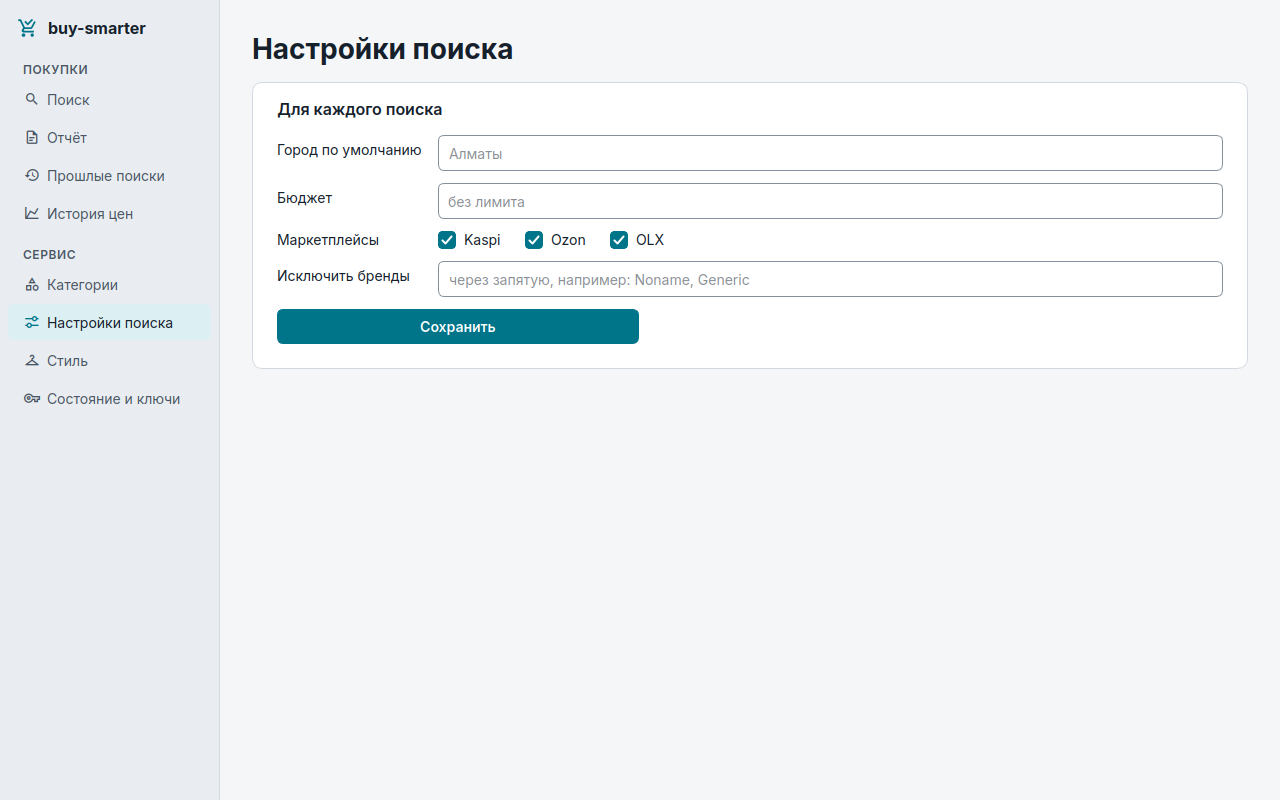
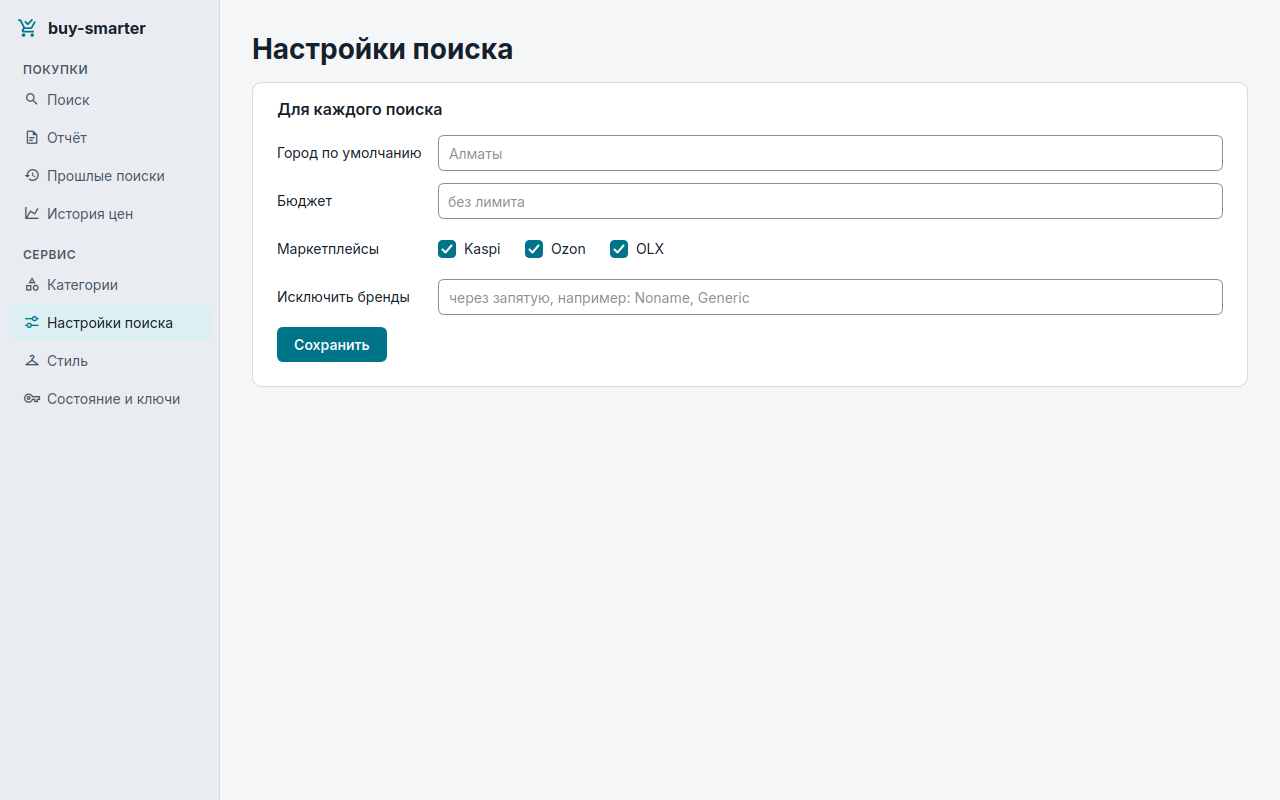
fix: settings form labels centred on their fields, square style tiles, past searches show the whole query, no empty «Родитель» column

Changed region(s): [[0.2188, 0.1875, 0.5938, 0.4688]]

diff --git a/src/buysmarter/gui/screens/style.py b/src/buysmarter/gui/screens/style.py
@@ -10,12 +10,11 @@ from collections.abc import Callable, Coroutine
 from pathlib import Path
 from typing import Any
 
-from PySide6.QtCore import QSize, Qt, Signal
+from PySide6.QtCore import QRect, QSize, Qt, Signal
 from PySide6.QtGui import QIcon, QImageReader, QPixmap, QResizeEvent, QShowEvent
 from PySide6.QtWidgets import (
     QAbstractItemView,
     QFileDialog,
-    QFormLayout,
     QGroupBox,
     QHBoxLayout,
     QLabel,
@@ -52,7 +51,7 @@ from buysmarter.cli.style import (
     phrase_line,
 )
 from buysmarter.gui.bridge import CoreRunner, Job
-from buysmarter.gui.theme import CARD_GAP, PAGE_GAP, SPACE, Prose, card_body, set_state
+from buysmarter.gui.theme import PAGE_GAP, SPACE, Prose, card_body, form_rows, set_state
 from buysmarter.memory.prefs import as_list
 from buysmarter.style import profile, weights
 
@@ -126,10 +125,13 @@ async def _brands(text: str) -> str:
 
 
 def _thumbnail(path: Path) -> QIcon:
-    """A small icon, decoded at that size (fast even for a big JPEG)."""
+    """A square tile cut from the photo's centre, decoded at that size (fast for a big JPEG)."""
     reader = QImageReader(str(path))
     if (size := reader.size()).isValid():
-        reader.setScaledSize(size.scaled(_THUMB_PX, _THUMB_PX, Qt.AspectRatioMode.KeepAspectRatio))
+        fill = size.scaled(_THUMB_PX, _THUMB_PX, Qt.AspectRatioMode.KeepAspectRatioByExpanding)
+        reader.setScaledSize(fill)
+        left, top = (fill.width() - _THUMB_PX) // 2, (fill.height() - _THUMB_PX) // 2
+        reader.setScaledClipRect(QRect(left, top, _THUMB_PX, _THUMB_PX))
     return QIcon(QPixmap.fromImage(reader.read()))
 
 
@@ -303,13 +305,11 @@ class StyleScreen(QWidget):
         # QSS horizontal padding does not reach a spin box's text: inset it as budget_box does.
         self.strength.lineEdit().setTextMargins(SPACE["sm"], 0, SPACE["sm"], 0)
         self.strength.valueChanged.connect(self._save_strength)
-        form = QFormLayout()
-        form.setHorizontalSpacing(SPACE["lg"])
-        form.setVerticalSpacing(CARD_GAP)
-        form.setLabelAlignment(Qt.AlignmentFlag.AlignLeft | Qt.AlignmentFlag.AlignVCenter)
-        form.addRow("Бренды", _row(self.brands, self.save_brands))
-        form.addRow("", _caption("По ним ищутся вещи на Kaspi, в этом порядке (до шести)."))
-        form.addRow(STRENGTH, _row(self.strength, _caption(_STRENGTH_HINT)))
+        form = form_rows(
+            ("Бренды", _row(self.brands, self.save_brands)),
+            ("", _caption("По ним ищутся вещи на Kaspi, в этом порядке (до шести).")),
+            (STRENGTH, _row(self.strength, _caption(_STRENGTH_HINT))),
+        )
         card, inside = _card("Настройка")
         inside.addLayout(form)
         return card

diff --git a/src/buysmarter/gui/screens/preferences.py b/src/buysmarter/gui/screens/preferences.py
@@ -3,11 +3,11 @@
 from collections.abc import Callable, Coroutine, Mapping
 from typing import Any
 
-from PySide6.QtCore import Qt, Signal
+from PySide6.QtCore import Signal
 from PySide6.QtWidgets import (
-    QFormLayout,
     QGroupBox,
     QHBoxLayout,
+    QLabel,
     QLineEdit,
     QPushButton,
     QVBoxLayout,
@@ -28,7 +28,7 @@ from buysmarter.gui.prefs_fields import (
     source_boxes,
     store_warning,
 )
-from buysmarter.gui.theme import CARD_GAP, PAGE_GAP, SPACE, Prose, card_body, set_state
+from buysmarter.gui.theme import PAGE_GAP, SPACE, card_body, form_rows, set_state
 from buysmarter.memory import prefs
 
 type Store = Callable[[Mapping[str, Any]], Coroutine[Any, Any, None]]
@@ -53,7 +53,7 @@ class PreferencesScreen(QWidget):
         self.budget = budget_box()
         self.sources = source_boxes()
         self.excluded = QLineEdit(placeholderText="через запятую, например: Noname, Generic")
-        self.message = Prose()
+        self.message = QLabel(wordWrap=True)  # beside the button: a capped width would stretch it
         self.store_warning = store_warning()
         self.save_button = QPushButton("Сохранить", default=True)
         set_state(self.save_button, "primary", "true")
@@ -65,18 +65,16 @@ class PreferencesScreen(QWidget):
         for box in self.sources.values():
             marketplaces.addWidget(box)
         marketplaces.addStretch(1)
-        form = QFormLayout()
-        form.addRow(LABELS[CITY], self.city)
-        form.addRow(LABELS[BUDGET], self.budget)
-        form.addRow(LABELS[MARKETPLACES], marketplaces)
-        form.addRow(LABELS[EXCLUDED_BRANDS], self.excluded)
+        form = form_rows(
+            (LABELS[CITY], self.city),
+            (LABELS[BUDGET], self.budget),
+            (LABELS[MARKETPLACES], marketplaces),
+            (LABELS[EXCLUDED_BRANDS], self.excluded),
+        )
         layout = QVBoxLayout(self)
         # Under the screen heading (app._centered): no top gap of its own.
         layout.setContentsMargins(SPACE["xxl"], SPACE["lg"], SPACE["xxl"], SPACE["xl"])
         layout.setSpacing(PAGE_GAP)
-        form.setVerticalSpacing(CARD_GAP)
-        form.setHorizontalSpacing(SPACE["lg"])
-        form.setLabelAlignment(Qt.AlignmentFlag.AlignLeft | Qt.AlignmentFlag.AlignVCenter)
         buttons = QHBoxLayout()
         buttons.addWidget(self.save_button)
         buttons.addSpacing(SPACE["md"])

diff --git a/src/buysmarter/gui/theme/__init__.py b/src/buysmarter/gui/theme/__init__.py
@@ -11,7 +11,14 @@ from pathlib import Path
 
 from PySide6.QtCore import QObject, Qt, Slot
 from PySide6.QtGui import QFontDatabase, QGuiApplication, QIcon
-from PySide6.QtWidgets import QApplication, QLabel, QLayout, QWidget
+from PySide6.QtWidgets import (
+    QApplication,
+    QBoxLayout,
+    QFormLayout,
+    QLabel,
+    QLayout,
+    QWidget,
+)
 
 os.environ.setdefault("QT_API", "pyside6")  # qtawesome loads Qt through qtpy: never another binding
 import qtawesome  # noqa: E402 - needs QT_API first
@@ -41,6 +48,8 @@ RADIUS = 6
 # Field text boxes, sized so a line edit, a combo box and a spin box all come out 36px tall:
 # Fusion adds 3px more frame around a spin box than around a line edit.
 _CONTROL_TEXT_PX = 22
+# What that comes to: a field, and the line a form label is centred on.
+CONTROL_PX = 36
 # A card's title sits inside it (the QGroupBox font styles it; children reset to body):
 # this much top padding holds the 16px title and its gap.
 _CARD_TITLE_BAND_PX = 52
@@ -305,6 +314,28 @@ def card_body[L: QLayout](layout: L) -> L:
     layout.setContentsMargins(0, 0, 0, 0)
     layout.setSpacing(CARD_GAP)
     return layout
+
+
+def form_rows(*rows: tuple[str, QWidget | QLayout]) -> QFormLayout:
+    """A settings form: each label left of its field, centred on the field's first line.
+
+    Qt gives a form label less height than the row and pins it to the top: 4px above the
+    field's text. A label as tall as a field centres like the field's own text.
+    """
+    form = QFormLayout()
+    form.setHorizontalSpacing(SPACE["lg"])
+    form.setVerticalSpacing(CARD_GAP)
+    form.setLabelAlignment(Qt.AlignmentFlag.AlignLeft | Qt.AlignmentFlag.AlignVCenter)
+    for text, field in rows:
+        label = QLabel(text)
+        if text:  # an empty one only indents a caption row: no height of its own
+            label.setMinimumHeight(CONTROL_PX)
+            if isinstance(field, QBoxLayout):  # a row of check boxes centres on the label too
+                field.addStrut(CONTROL_PX)
+        if isinstance(field, QWidget):
+            label.setBuddy(field)
+        form.addRow(label, field)
+    return form
 
 
 def set_state(widget: QWidget, name: str, value: str) -> None:

diff --git a/tests/gui/test_categories.py b/tests/gui/test_categories.py
@@ -4,7 +4,7 @@ import asyncio
 from pathlib import Path
 
 from buysmarter.capabilities.provenance import CHANGED_NOTE
-from buysmarter.cli.category import NOTES_TOO_LONG
+from buysmarter.cli.category import NOTES_TOO_LONG, CategoryRow
 from buysmarter.gui.bridge import USER_ERROR
 from buysmarter.gui.learning import LEARN_CANCELLED, CategoryLearning
 from buysmarter.gui.screens import categories as screen_module
@@ -59,6 +59,18 @@ def test_the_list_names_each_category_with_its_books(qtbot, runner) -> None:
 
     qtbot.waitUntil(lambda: _rows(screen) == ["робот-пылесос"], timeout=_WAIT_MS)
     assert screen.table.item(0, 1).text() == "бренды 2, модели 0"
+
+
+def test_the_parent_column_shows_only_when_a_category_has_one(qtbot, runner) -> None:
+    screen = _screen(qtbot, runner)
+    parent = CategoryRow._fields.index("parent")
+    qtbot.waitUntil(lambda: screen.empty.text() == EMPTY, timeout=_WAIT_MS)  # the reload is done
+
+    screen._fill([CategoryRow("кроссовки", "бренды 1", "", "вы, 2026-10-29")])
+    assert screen.table.isColumnHidden(parent)
+
+    screen._fill([CategoryRow("кроссовки-беговые", "бренды 1", "кроссовки", "вы, 2026-10-29")])
+    assert not screen.table.isColumnHidden(parent)
 
 
 def test_a_picked_category_shows_its_summary_and_switches_without_a_rerun(qtbot, runner) -> None:

diff --git a/tests/gui/test_theme.py b/tests/gui/test_theme.py
@@ -2,6 +2,7 @@
 
 import pytest
 from PySide6.QtCore import Qt
+from PySide6.QtWidgets import QCheckBox, QHBoxLayout, QLineEdit, QWidget
 
 from buysmarter.gui import theme
 
@@ -100,3 +101,27 @@ def test_screens_take_colors_and_sizes_only_from_the_theme():
         if banned.search(line)
     ]
     assert hits == []
+
+
+def test_a_form_label_sits_on_its_field_centre(qapp):
+    """Qt pins a form label to the row's top, 4px above the field's text."""
+    theme.load_font()
+    theme.apply_theme(qapp)
+    try:
+        field = QLineEdit("Salomon")
+        boxes = QHBoxLayout()
+        boxes.addWidget(box := QCheckBox("Kaspi"))
+        host = QWidget()
+        form = theme.form_rows(("Бренды", field), ("Маркетплейсы", boxes))
+        host.setLayout(form)
+        host.resize(400, 200)
+        host.show()
+        qapp.processEvents()
+        assert field.height() == theme.CONTROL_PX
+        for widget, label in (
+            (field, form.labelForField(field)),
+            (box, form.itemAt(1, form.ItemRole.LabelRole).widget()),
+        ):
+            assert abs(label.geometry().center().y() - widget.geometry().center().y()) <= 1
+    finally:
+        qapp.setStyleSheet("")

diff --git a/src/buysmarter/gui/screens/saved.py b/src/buysmarter/gui/screens/saved.py
@@ -46,7 +46,7 @@ type ListReports = Callable[[], list[Path]]
 
 def _report_item(path: Path) -> QListWidgetItem:
     label = report_label(path)
-    item = QListWidgetItem(label)
+    item = QListWidgetItem(label.replace(" — ", "\n", 1))
     item.setData(_PATH_ROLE, path)
     item.setToolTip(f"{label}\n{path}")
     return item
@@ -153,7 +153,8 @@ class SavedScreen(QWidget):
         self._list_reports = list_reports
         self.reports = QListWidget()
         self.reports.setFixedWidth(_LIST_WIDTH)
-        # A long query elides; its full label and file are in the tooltip.
+        # Date over query (`_report_item`): the query gets the row's full width; a longer one
+        # still elides, and its full label and file are in the tooltip.
         self.reports.setHorizontalScrollBarPolicy(Qt.ScrollBarPolicy.ScrollBarAlwaysOff)
         self.reports.setTextElideMode(Qt.TextElideMode.ElideRight)
         self.reports.currentItemChanged.connect(self._show)

diff --git a/src/buysmarter/gui/screens/categories.py b/src/buysmarter/gui/screens/categories.py
@@ -189,6 +189,9 @@ class CategoriesScreen(QWidget):
             if row.name == self._shown:
                 self.table.selectRow(r)
         self.table.blockSignals(False)
+        # an empty column on every row is noise: «Родитель» only once a category has one
+        has_parent = any(row.parent for row in rows)
+        self.table.setColumnHidden(CategoryRow._fields.index("parent"), not has_parent)
         self.table.setVisible(bool(rows))
         self.empty.setText("" if rows else EMPTY)
         self.empty.setVisible(not rows)

diff --git a/tests/gui/test_saved.py b/tests/gui/test_saved.py
@@ -37,7 +37,7 @@ def test_a_report_shows_its_whole_query_in_the_list_but_not_in_the_text(qtbot, t
 
     screen.reload()
 
-    assert screen.reports.item(0).text() == "21.10.2026 20:38 — Смартфон до 200 000, Алматы!"
+    assert screen.reports.item(0).text() == "21.10.2026 20:38\nСмартфон до 200 000, Алматы!"
     assert screen.view.toPlainText().strip() == "Смартфон"
 
 

diff --git a/.claude/skills/qt-ui/SKILL.md b/.claude/skills/qt-ui/SKILL.md
@@ -22,11 +22,7 @@ description: Fast, house-style visual fixes for the buy-smarter PySide6 desktop 
 
 ### Открытые мелочи
 
-- «Стиль»: миниатюры образцов разной ширины.
-- «Категории»: колонка «Родитель» пустая у всех строк.
-- «Прошлые поиски»: длинные запросы в списке урезаны многоточием.
-- «Поиск»: карточка на 3px выше в одной из тем.
-- «Настройки поиска», «Стиль»: подписи `QFormLayout` на пару px выше центра поля.
+(пусто)
 
 ### Сознательно не трогаем (не находить заново)
 
@@ -34,6 +30,8 @@ description: Fast, house-style visual fixes for the buy-smarter PySide6 desktop 
 - Кнопки «Стиля» в два ряда — сгруппированы по смыслу.
 - «Недавние поиски» на «Поиске» — заголовок вне карточки: иначе рамка в рамке.
 - Статус рядом с кнопками без ограничения ширины — иначе растягивает кнопки.
+- «Поиск»: после прогона пустые строки статуса под кнопками на 3px ниже, карточка «прыгает»
+  на 3px; на снимках это разница light/dark (тёмную снимают после уточнения и изучения).
 
 ## Шаг 0. Снимок ДО (всегда первым)
 
@@ -187,6 +185,7 @@ layout'а из `SPACE`.
 | Колонка таблицы сжалась до букв в столбик | Stretch рядом с ResizeToContents → `tables.stretch_column` (пол `TEXT_FLOOR_PX`) |
 | `resizeSection` не держится | заголовок перезаписывает его в своём проходе → `QTimer.singleShot(0, ...)` |
 | Перенесённый `QLabel` с max-width обрезает строку | высота считается для полной ширины → `theme.Prose` |
+| Подпись `QFormLayout` на 4px выше текста поля | Qt даёт подписи меньше высоты строки и прижимает к верху → `theme.form_rows` |
 | Отступы «почти по сетке» | Qt ставит spacing 6px и поля 9–11px сам → всегда явный `setSpacing`/`setContentsMargins` |
 | В markdown `_x_` подчёркнут | Qt рендерит его как underline → глушить в документе (`saved._mute_notes`) |
 | Полужирный выглядит обычным | вариативный шрифт = один Regular → статические файлы весов |

diff --git a/DESIGN.md b/DESIGN.md
@@ -58,8 +58,11 @@ buttons stays a plain label.
   skipped/waiting (muted), warning (amber); set with `theme.set_state`.
 - Tables show every row (`gui/tables.py`); the page scrolls, never the table. Headers are
   12/600 muted on the sidebar tone, indented so cell text sits under them. A stretched text
-  column (a title) keeps at least 160px; past that the table scrolls sideways. The photo grid
-  on «Стиль» follows the same rule: as tall as its rows.
+  column (a title) keeps at least 160px; past that the table scrolls sideways. A column empty
+  on every row is hidden («Родитель» on «Категории»). The photo grid on «Стиль» follows the
+  same rule, as tall as its rows, with square 96px tiles cut from each photo's centre.
+- Settings forms (`theme.form_rows`) put each label left of its field, centred on the field's
+  first 36px line.
 - The report's best pick shows three figures at 24px with 12px captions on one line: the score
   (700, accent), the confidence and the price (600). «Настроить» under the heading is an inline
   link on the heading's vertical.
@@ -68,7 +71,8 @@ buttons stays a plain label.
   track (visible on the dark card).
 - Past searches render the saved markdown in the theme (`style_report`): 20/16 bold headings,
   accent links, ruled tables, body lines at 150% leading; `_note_` lines muted, long hashes and
-  URLs wrapped.
+  URLs wrapped. The list on the left shows the date over the query, so the query gets the full
+  row.
 - Light or dark follows the OS and switches live.
 
 ## Rules
